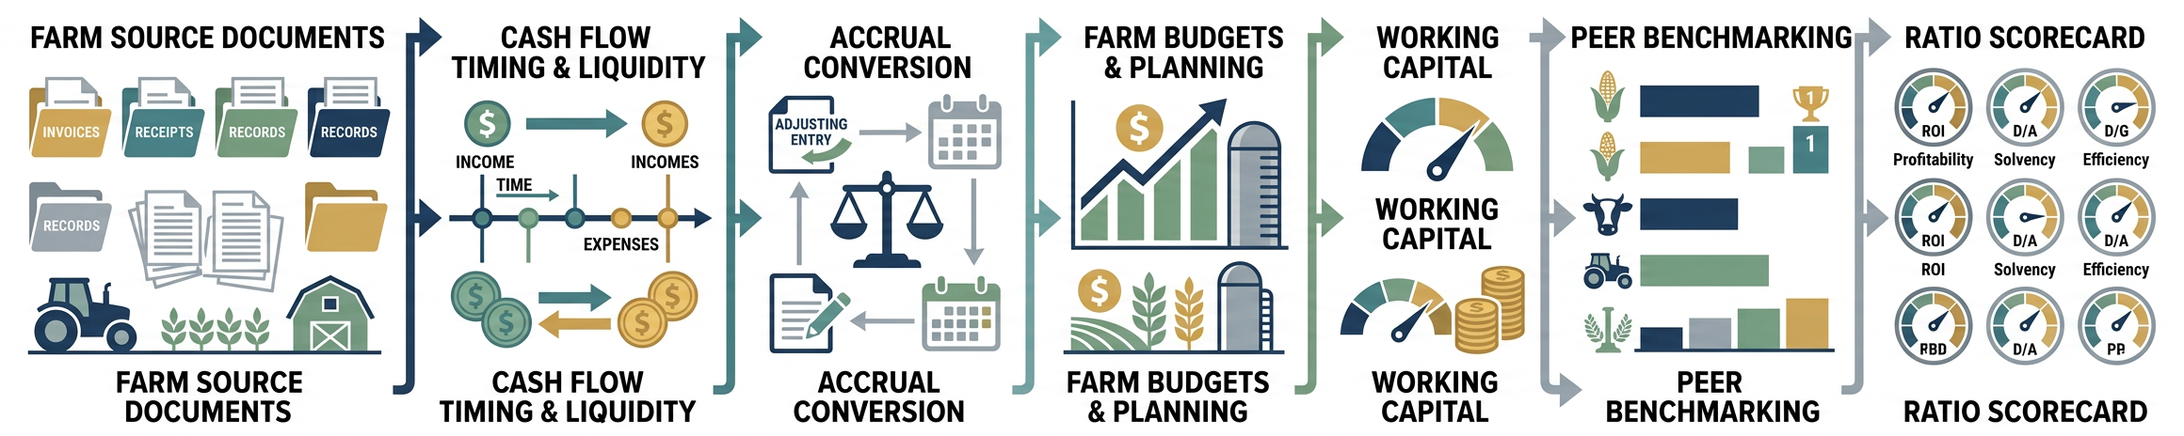
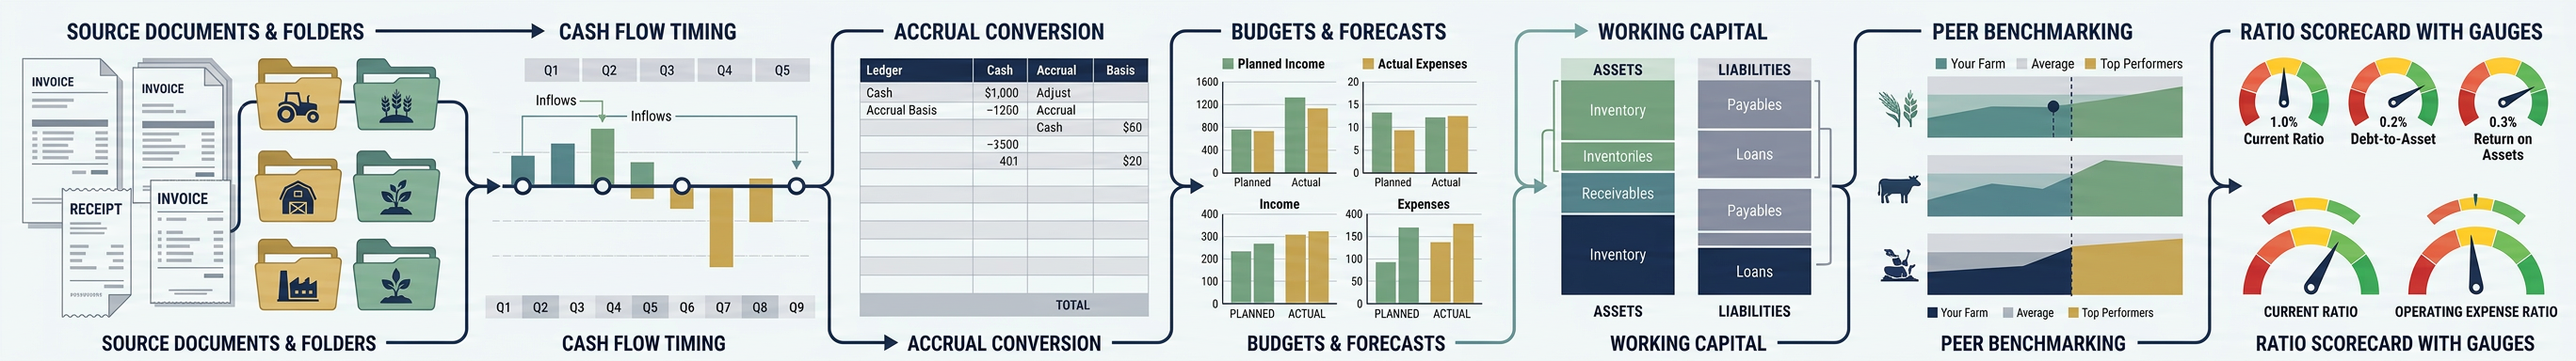
Reduce module visual height and remove face imagery

diff --git a/src/App.jsx b/src/App.jsx
@@ -159,7 +159,7 @@ const Flag = ({ type, children }) => {
 const Head = ({ eyebrow, title, sub, showFinancialVisual = true }) => {
   const isFinancial = eyebrow?.startsWith("Financial Analysis");
   return <div>
-  {isFinancial && showFinancialVisual && <img src="/financial-analysis-dashboard.png" alt="Financial analysis dashboard connecting documents, cash flow, budgets, and benchmarking" style={{ display:"block", width:"100%", height:"auto", aspectRatio:"5 / 1", maxHeight:"none", objectFit:"contain", borderRadius:16, marginBottom:22 }} />}
+  {isFinancial && showFinancialVisual && <img src="/financial-analysis-dashboard.png" alt="Financial analysis dashboard connecting documents, cash flow, budgets, and benchmarking" style={{ display:"block", width:"100%", height:"auto", aspectRatio:"7 / 1", maxHeight:"none", objectFit:"contain", borderRadius:16, marginBottom:22 }} />}
   {!isFinancial && !eyebrow?.startsWith("Strategic vision") && <div style={eyebrowStyle}>{eyebrow}</div>}
   <h1 style={h1Style}>{title}</h1>
   <p style={subStyle}>{sub}</p>
@@ -911,7 +911,7 @@ function FA3({ fa, setFA }) {
 
 // ────────────���───────────────��──────────────���──────────────────────────────��──
 // FA STAGE 4 — Peer benchmarking
-// ────────────────────────────────���───────────────────────���──────────────────���─
+// ─────────��──────────────────────���───────────────────────���──────────────────���─
 function FA4({ fa, setFA }) {
   const b = fa.s4bench;
   const v = id => b[id]||""; const sv = (id,val) => setFA(s=>({...s,s4bench:{...s.s4bench,[id]:val}})); const gv = id => parseFloat(b[id]);
@@ -4142,7 +4142,7 @@ const valueParcel = (p) => {
 
 // ══════════════════════════════════════════════════════════════��══════════════
 // BLIND COMPARE — the same questions, answered independently
-// ��════��═════════════════════════════════════════════════════════════������════════
+// ��════��═══════════════════════════════════��═════════════════════════������════════
 // One array drives both sides and the comparison, so the two generations are
 // provably answering the same question rather than two similar ones.
 //
@@ -6499,7 +6499,7 @@ const GENERIC_FARM_FINANCIALS = {
   livingWithdrawals:"68000", incomeTaxes:"34000",
 };
 
-const VisionInlineVisual = ({ stageLabel }) => <div style={{ margin:"4px 0 26px", borderRadius:16, overflow:"hidden", border:`1px solid ${T.div}`, background:T.bgAlt }}><img src="/strategic-vision-roadmap.png" alt="Strategic vision roadmap toward a decision-ready farm document" style={{ display:"block", width:"100%", height:"auto", aspectRatio:"5 / 1", objectFit:"contain" }} /><div style={{ display:"flex", justifyContent:"space-between", gap:10, padding:"10px 14px", color:T.fgS, fontSize:11.5 }}><span>{stageLabel}</span><span style={{ color:T.green, fontWeight:700 }}>Vision in progress</span></div></div>;
+const VisionInlineVisual = ({ stageLabel }) => <div style={{ margin:"4px 0 26px", borderRadius:16, overflow:"hidden", border:`1px solid ${T.div}`, background:T.bgAlt }}><img src="/strategic-vision-roadmap.png" alt="Strategic vision roadmap toward a decision-ready farm document" style={{ display:"block", width:"100%", height:"auto", aspectRatio:"7 / 1", objectFit:"contain" }} /><div style={{ display:"flex", justifyContent:"space-between", gap:10, padding:"10px 14px", color:T.fgS, fontSize:11.5 }}><span>{stageLabel}</span><span style={{ color:T.green, fontWeight:700 }}>Vision in progress</span></div></div>;
 
 export default function App() {
   const [module, setModule] = useState("vision");
